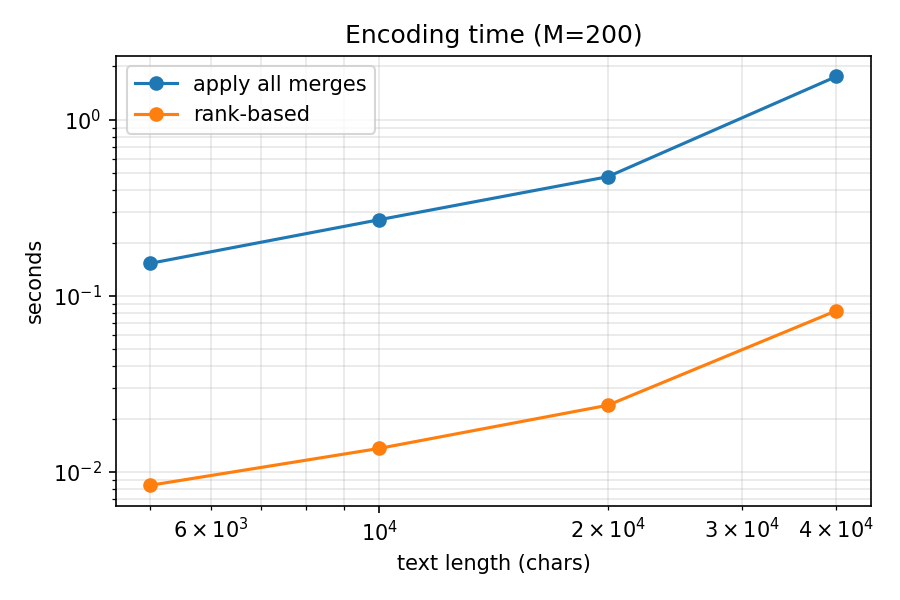
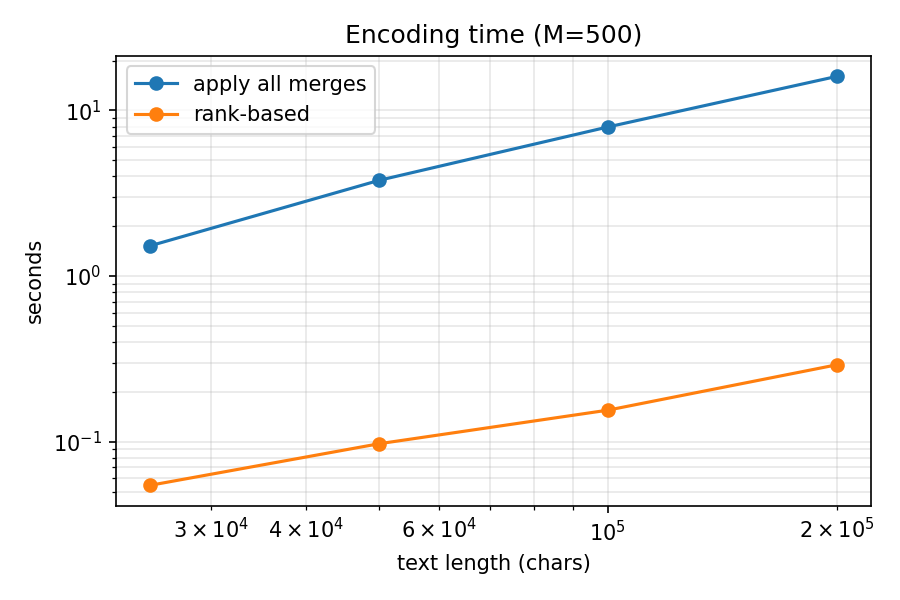
final

diff --git a/analyze_results.py b/analyze_results.py
@@ -1,0 +1,48 @@
+"""Derived numbers and a speedup plot from a benchmark results CSV.
+
+    python analyze_results.py jeopardy      # reads results_jeopardy.csv
+
+Prints, for each training experiment, the quantities your predictions talk
+about: speedup (naive / efficient) and naive time divided by N * M. It does
+not interpret them. Comparing them to your predictions is your job.
+"""
+
+import csv
+import sys
+from pathlib import Path
+
+import matplotlib
+matplotlib.use("Agg")
+import matplotlib.pyplot as plt
+
+tag = sys.argv[1] if len(sys.argv) > 1 else "jeopardy"
+path = Path(__file__).parent / f"results_{tag}.csv"
+rows = list(csv.DictReader(open(path)))
+
+
+def get(exp):
+    return [
+        dict(chars=int(r["chars"]), n=int(r["symbols_or_tokens"]), m=int(r["merges"]),
+             naive=float(r["naive_s"]), eff=float(r["efficient_s"]))
+        for r in rows if r["experiment"] == exp
+    ]
+
+
+for exp, label in [("vary_N", "Vary N, fixed M"), ("vary_M", "Vary M, fixed N")]:
+    data = get(exp)
+    print(f"\n{label}")
+    print(f"{'N (symbols)':>12} {'M':>5} {'naive s':>9} {'eff s':>8} {'speedup':>8} {'naive/(N*M) (ns)':>17}")
+    for d in data:
+        print(f"{d['n']:>12,} {d['m']:>5} {d['naive']:>9.2f} {d['eff']:>8.2f} "
+              f"{d['naive'] / d['eff']:>8.1f} {d['naive'] / (d['n'] * d['m']) * 1e9:>17.1f}")
+
+data = get("vary_M")
+plt.figure(figsize=(6, 4))
+plt.plot([d["m"] for d in data], [d["naive"] / d["eff"] for d in data], marker="o")
+plt.xlabel("number of merges M")
+plt.ylabel("speedup (naive time / efficient time)")
+plt.title("Speedup vs. merges")
+plt.grid(True, alpha=0.3)
+plt.tight_layout()
+plt.savefig(Path(__file__).parent / f"plot_speedup_{tag}.png", dpi=150)
+print(f"\nwrote plot_speedup_{tag}.png")
